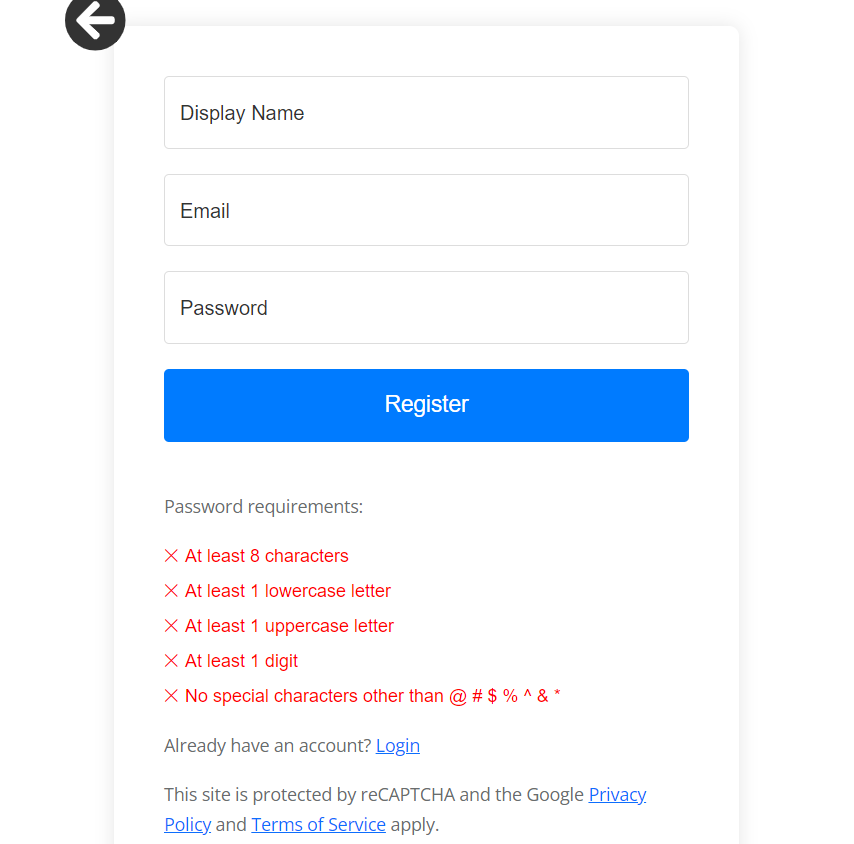
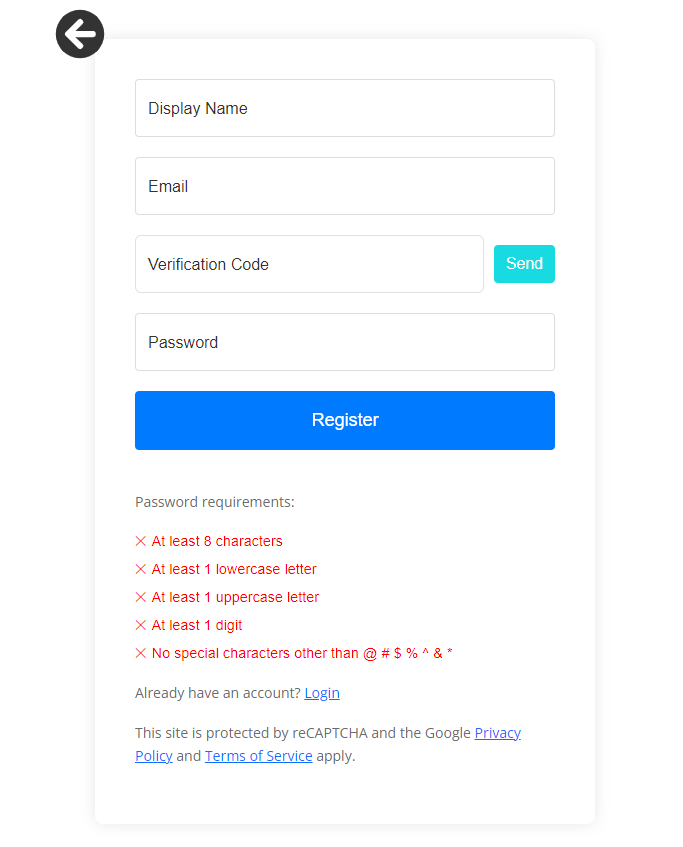
dsasadsa

diff --git a/project1.html b/project1.html
@@ -175,7 +175,8 @@
                                         password.
                                         The email address and password do have a format requirement and are dynamically
                                         detected and
-                                        reminded. This page is protected by Google reCAPTCHA.</p>
+                                        reminded. The user also need to let the site send their email a verification
+                                        code and put it in correctly. This page is protected by Google reCAPTCHA.</p>
                                 </div>
                             </div>
                         </div>
@@ -191,6 +192,29 @@
                                 </div>
                             </div>
                         </div>
+                        <div class="col-md-6">
+                            <div class="card">
+                                <img src="./project1/p2-6.png" alt="Registration form interface" class="card-img-top">
+                                <div class="card-body">
+
+                                    <p>
+                                        When user click send button, a email containing verification code will be sent
+                                        to the user via SMTP. The user must put in the correct code to proceed to
+                                        register.</p>
+                                </div>
+                            </div>
+                        </div>
+                        <div class="col-md-6">
+                            <div class="card">
+                                <img src="./project1/p2-7.png" alt="Registration form interface" class="card-img-top">
+                                <div class="card-body">
+
+                                    <p>
+                                        If the code is not correct, the user will not be able to register.</p>
+                                </div>
+                            </div>
+                        </div>
+
                         <div class="col-md-6">
                             <div class="card">
                                 <img src="./project1/p2-5.png" alt="Header display after successful login"
